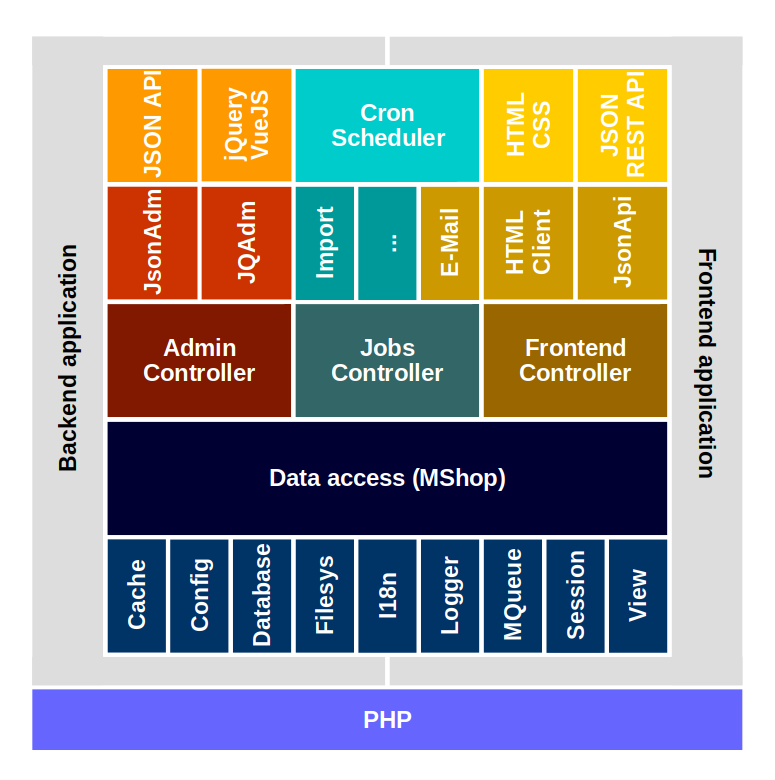
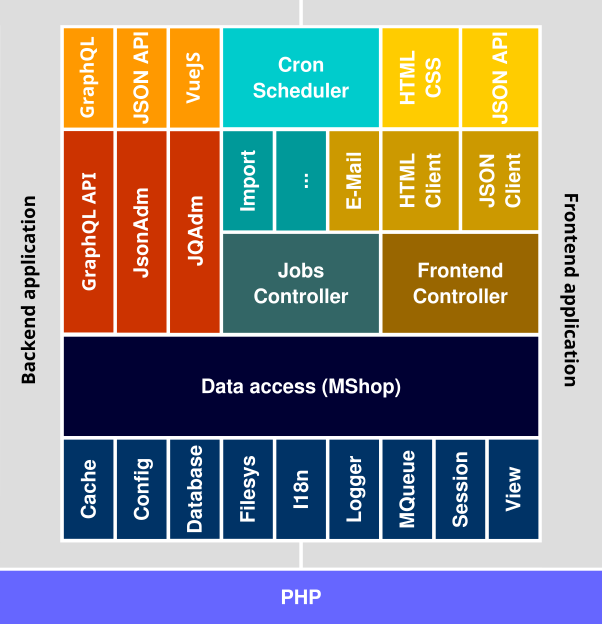
Updated Aimeos stack image

diff --git a/src/developer/architecture.md b/src/developer/architecture.md
@@ -15,7 +15,13 @@ Standard Aimeos admin interface for managing all data that is required or genera
 
 Code: [ai-admin-jqadm extension](https://github.com/aimeos/ai-admin-jqadm)
 
-## JsonAdm API
+## GraphQL API
+
+GraphQL API for retrieving and managing add shop data from remote or from the JQAdm interface.
+
+Code: [ai-admin-graphql extension](https://github.com/aimeos/ai-admin-graphql)
+
+## JsonAdm API (deprecated)
 
 JSON REST API for retrieving and managing add shop data from remote or from the JQAdm interface.
 
@@ -80,10 +86,6 @@ Jobs care about:
 * Updating order status from exernal sources
 * Subscription handling
 * Sending e-mails
-
-## Admin controllers
-
-To be implemented
 
 
 # Data access
